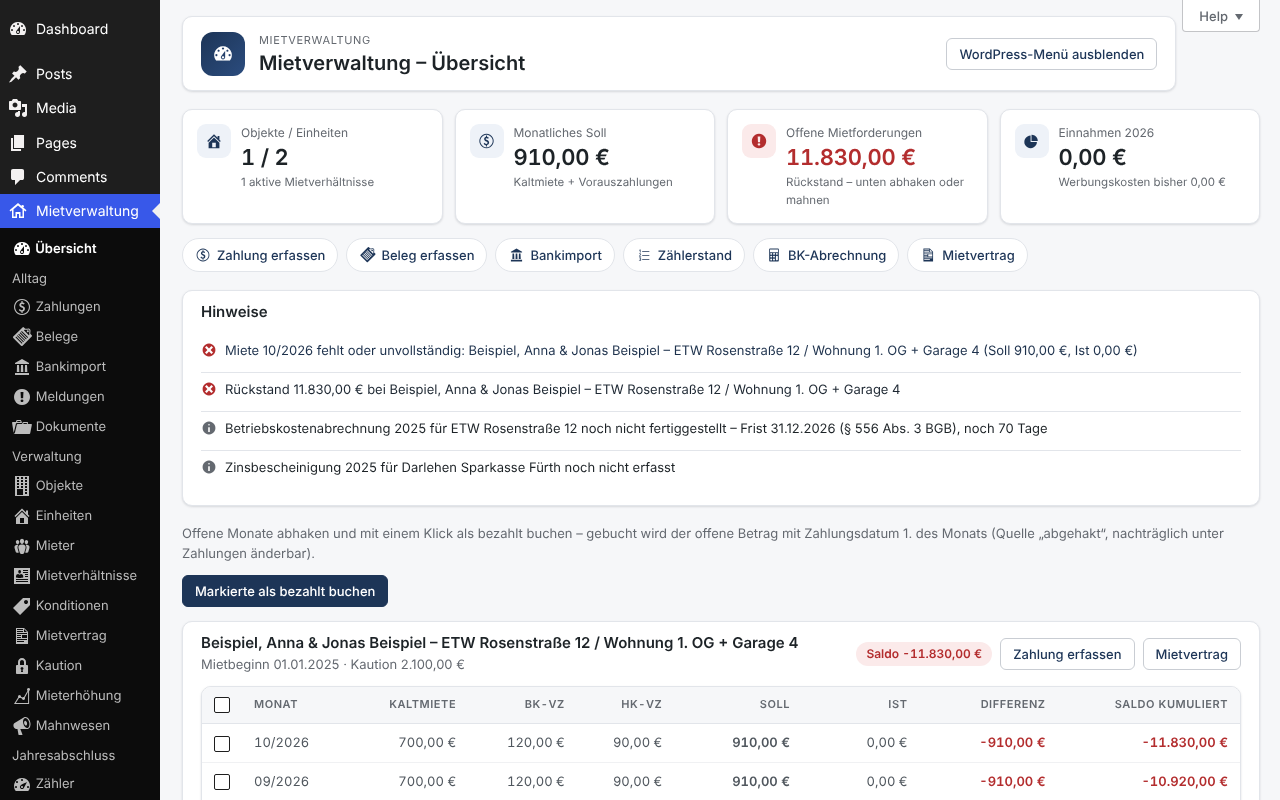
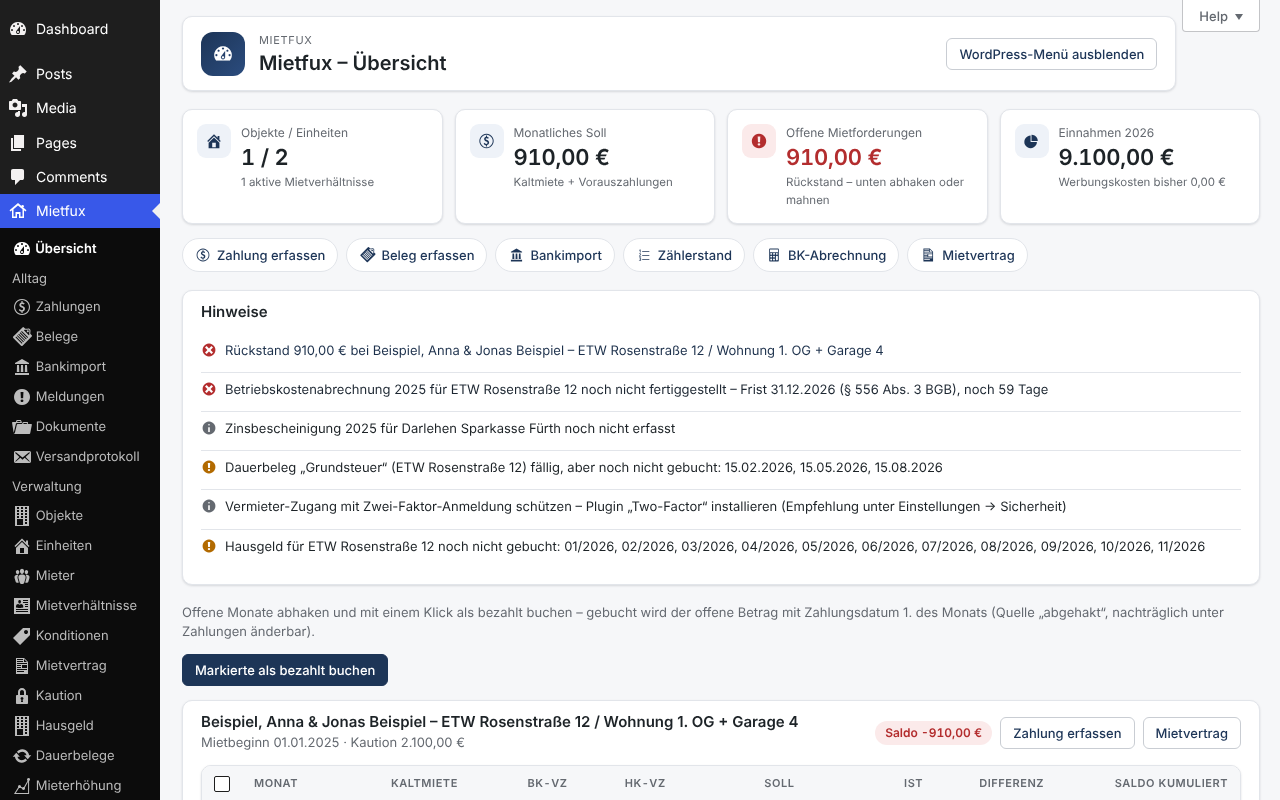
1.2.0 – Changelog, Readme, Screenshots, Demodaten mit Dauerbeleg
Claude-Session: https://claude.ai/code/session_01NVwj6gNjdWYU9fB8pT8waD

diff --git a/includes/class-mv-demo.php b/includes/class-mv-demo.php
@@ -232,10 +232,6 @@ class Mietv_Demo {
 
 		// Belege im Vorjahr
 		$belege = [
-			[ ( $jahr - 1 ) . '-02-15', 'Grundsteuer', 'Stadt Fürth', 'Grundsteuer 1. Quartal', 84.5 ],
-			[ ( $jahr - 1 ) . '-05-15', 'Grundsteuer', 'Stadt Fürth', 'Grundsteuer 2. Quartal', 84.5 ],
-			[ ( $jahr - 1 ) . '-08-15', 'Grundsteuer', 'Stadt Fürth', 'Grundsteuer 3. Quartal', 84.5 ],
-			[ ( $jahr - 1 ) . '-11-15', 'Grundsteuer', 'Stadt Fürth', 'Grundsteuer 4. Quartal', 84.5 ],
 			[ ( $jahr - 1 ) . '-06-20', 'Erhaltungsaufwand', 'Sanitär Meier', 'Reparatur Armatur Bad', 236.4 ],
 			[ ( $jahr - 1 ) . '-09-02', 'Sonstige Werbungskosten', 'Mietfux', 'Software, Porto', 59.9 ],
 		];
@@ -260,6 +256,32 @@ class Mietv_Demo {
 					'verteilung_jahre' => 1,
 				]
 			);
+		}
+
+		// Dauerbeleg: Grundsteuer vierteljährlich, Vorjahr gebucht
+		if ( class_exists( 'Mietv_Dauerbelege' ) && $id_of( 'Grundsteuer' ) ) {
+			$wpdb->insert(
+				mietv_table( 'dauerbelege' ),
+				[
+					'owner_id'          => MIETV_OWNER_ID,
+					'objekt_id'         => $oid,
+					'kostenart_id'      => $id_of( 'Grundsteuer' ),
+					'bezeichnung'       => 'Grundsteuer',
+					'lieferant'         => 'Stadt Fürth',
+					'iban'              => 'DE12760500000000012345',
+					'betrag'            => 84.5,
+					'intervall'         => 'vierteljaehrlich',
+					'erste_faelligkeit' => ( $jahr - 1 ) . '-02-15',
+					'ende'              => null,
+					'aktiv'             => 1,
+					'notiz'             => '',
+				]
+			);
+			$did = (int) $wpdb->insert_id;
+			foreach ( [ '02', '05', '08', '11' ] as $mm ) {
+				$f = ( $jahr - 1 ) . '-' . $mm . '-15';
+				Mietv_Dauerbelege::buchen( $did, $f, $f );
+			}
 		}
 
 		// Hausgeld: Wirtschaftsplan + Vorjahr gebucht

diff --git a/mietfux.php b/mietfux.php
@@ -3,7 +3,7 @@
  * Plugin Name: Mietfux – Mietverwaltung für Vermieter
  * Plugin URI: https://github.com/sporcherla/mietverwaltung
  * Description: Rental management for German landlords: properties, tenancies, payments (target/actual), tenant portal with damage reports, receipts, depreciation, loans, tax report (Anlage V), service charge statements, bank import, dunning, rent increases, tenancy agreement/handover protocol, deposit account, PDF generation, GDPR deletion concept and backup.
- * Version: 1.1.1
+ * Version: 1.2.0
  * Author: Markus Hirn
  * Requires at least: 6.0
  * Requires PHP: 8.0
@@ -17,7 +17,7 @@ if ( ! defined( 'ABSPATH' ) ) {
 	exit;
 }
 
-define( 'MIETV_VERSION', '1.1.1' );
+define( 'MIETV_VERSION', '1.2.0' );
 define( 'MIETV_PATH', plugin_dir_path( __FILE__ ) );
 define( 'MIETV_URL', plugin_dir_url( __FILE__ ) );
 // Vorbereitung Mandantenfähigkeit: vorerst immer 1.

diff --git a/CHANGELOG.md b/CHANGELOG.md
@@ -2,6 +2,19 @@
 
 Alle nennenswerten Änderungen am Plugin „Mietfux“ (bis 1.0.0 „Mietverwaltung“).
 
+## 1.2.0 – Dauerbelege, Protokoll, E-Mail-Versand, VPI, Backups, 2FA, Steuerberater
+
+- **Dauerbelege** (Alltag → Dauerbelege): Fälligkeitspläne (monatlich/vierteljährlich/halbjährlich/jährlich) für Grundsteuer, Versicherung, Schornsteinfeger usw.; Termine abhaken und buchen (Beleg mit Leistungszeitraum des Intervalls), Bankimport erkennt Lieferant/IBAN und bucht die nächste Fälligkeit.
+- **Änderungsprotokoll** (System → Protokoll): wer hat wann welchen Datensatz angelegt, geändert, gelöscht oder anonymisiert – nur geänderte Felder, IBAN maskiert, IP anonymisiert; Filter, CSV-Export, Aufbewahrungsfrist (Standard 365 Tage, täglicher Cron). Rechenschaftspflicht Art. 5 Abs. 2 DSGVO.
+- **E-Mail-Versand** (Alltag → Versandprotokoll): Betriebskostenabrechnung, Mieterhöhung, Kautionsabrechnung und Mahnung per Knopfdruck als PDF an den Mieter; Anschreiben mit Anrede, Signatur, Kopie an den Vermieter, Versandprotokoll mit Status/Fehler. Die Mahn-Mail läuft jetzt ebenfalls darüber. Dafür liefern die Fachmodule ihre Brieftexte über `body()`.
+- **Verbraucherpreisindex** (Jahresabschluss → Index / VPI): Monatswerte manuell, per CSV oder von Destatis (GENESIS-Online, Gastzugang oder eigene Zugangsdaten in den Einstellungen); Übersicht aller Indexmieten mit Sperrfrist, möglicher Anpassung und vorbelegtem Erhöhungsschreiben; Hinweis auf der Übersicht.
+- **Automatische Sicherungen** (Einstellungen): täglich/wöchentlich per WP-Cron als JSON in `uploads/mietfux-backups` (gesperrt für direkten Zugriff), rotierend (Anzahl einstellbar), optional per E-Mail; Liste mit Download/Löschen, „Sicherung jetzt erstellen“.
+- **Zwei-Faktor-Anmeldung**: Erkennung des Plugins „Two-Factor“ (WordPress-Core-Team), Hinweis auf der Übersicht, Einstellung „Pflicht für Vermieter und Administratoren“ (leitet ohne eingerichtete 2FA zum Profil).
+- **Rolle „Steuerberater (nur lesen)“**: eigener Menüeintrag mit Anlage V, Belegliste und CSV-Export, keine Schreibrechte.
+- **Demodaten**: auf leerer Installation per Knopf (Übersicht) – Eigentumswohnung mit Mieter, zwei Jahre Zahlungen, Belege, Darlehen, Hausgeld, Zähler. **Playground-Blueprint** (`.wordpress-org/blueprints/blueprint.json`) für die Live-Vorschau auf WordPress.org.
+- Behoben: Brief-Link in der Erhöhungshistorie (falsche Nonce-Aktion), Abrechnungs-Brief über admin-post (TypeError), Hausgeld-Tabellen fehlten im Backup.
+- Datenbank-Version 15 (Tabellen `mv_dauerbelege`, `mv_protokoll`, `mv_versand`, `mv_vpi`, Spalte `belege.dauerbeleg_id`).
+
 ## 1.1.1 – Update-Prüfung im Plugin
 
 - Einstellungen & Backup → „Version & Updates“: installierte Version, letzte Prüfung, Button „Nach Updates suchen“ (fragt WordPress.org sofort statt alle 12 Stunden) und „Jetzt auf x.y.z aktualisieren“ (startet die normale WordPress-Aktualisierung). Hinweis auf der Übersicht, sobald eine neue Version vorliegt.

diff --git a/README.md b/README.md
@@ -40,6 +40,11 @@
 | **Mietvertrag** | Wohnraummietvertrag mit 20 §§ aus den Stammdaten (Befristung, Staffel/Index, Kleinreparaturen, Tiere, Schönheitsreparaturen, Mietpreisbremse-Ausnahmen, § 554 BGB …), Hausordnung, Merkblatt Heizen/Lüften, Datenschutzinformation Art. 13, SEPA-Lastschriftmandat, Übergabeprotokoll Einzug/Auszug – als PDF oder Druckansicht, Ablage in den Dokumenten |
 | **Kaution** | Kautionskonto nach § 551 BGB: Einzahlungen, taggenaue Verzinsung, Verrechnung, Rückzahlungsabrechnung als PDF |
 | **Hausgeld (WEG)** | Wirtschaftsplan je Eigentumswohnung mit Aufteilung auf Kostenarten; Monatszahlungen erzeugen Belege (umlagefähig → BK-Abrechnung, Verwaltung/Instandhaltung → Anlage V, Erhaltungsrücklage nicht abziehbar); WEG-Jahresabrechnung bucht Nachzahlung/Guthaben je Kostenart; Bankimport erkennt die Hausverwaltung |
+| **Dauerbelege** | Fälligkeitspläne für Grundsteuer, Versicherung, Schornsteinfeger … (monatlich bis jährlich), abhaken und buchen, Bankimport erkennt den Lieferanten |
+| **E-Mail-Versand** | Abrechnung, Mieterhöhung, Kautionsabrechnung, Mahnung als PDF an den Mieter, Kopie an den Vermieter, Versandprotokoll |
+| **Verbraucherpreisindex** | VPI-Monatswerte (manuell, CSV, Destatis), Indexmieten mit Sperrfrist und möglicher Anpassung, vorbelegtes Erhöhungsschreiben |
+| **Änderungsprotokoll** | Wer hat wann was angelegt, geändert, gelöscht, anonymisiert – Filter, CSV, Aufbewahrungsfrist (Rechenschaftspflicht DSGVO) |
+| **Sicherung & Sicherheit** | Automatische JSON-Backups (Cron, rotierend, optional per E-Mail), 2FA-Anbindung (Plugin „Two-Factor“, Pflicht für Vermieter), Rolle „Steuerberater (nur lesen)“, Demodaten, Playground-Vorschau |
 | **Mahnwesen** | Zahlungserinnerung, 1. und letzte Mahnung mit Fristen, PDF, E-Mail an Mieter und Mitmieter, Warnung bei ≥ 2 Monatsmieten Rückstand |
 | **Mieterhöhung** | § 558 (Vergleichsmiete, Kappungsgrenze 15/20 %, Sperrfrist), § 557b (Index/VPI), Vereinbarung/Staffel; Schreiben und neue Kondition automatisch |
 | **Mieterportal** | Shortcode `[mietfux_portal]`: Mietkonto, Abrechnungen, freigegebene Dokumente, Schadensmeldung, Zählerstand melden |

diff --git a/README.en.md b/README.en.md
@@ -42,6 +42,11 @@
 | **Tenancy agreement** | Residential agreement with 20 sections generated from master data (fixed term, stepped/index rent, minor repairs, pets, decorative repairs, rent cap exceptions, § 554 BGB …), house rules, heating/ventilation leaflet, Art. 13 GDPR privacy notice, SEPA direct debit mandate, move-in/move-out handover protocol – as PDF or print view, filed under Documents |
 | **Deposit** | Deposit account under § 551 BGB: payments, daily interest, offsetting, settlement as PDF |
 | **Owners’ association fee** | Budget plan per condominium with split by cost type; monthly payments create receipts (recoverable → service charge statement, management/maintenance → Anlage V, maintenance reserve not deducted); annual statement books differences per cost type; bank import recognises the manager |
+| **Recurring expenses** | Due-date plans for property tax, insurance, chimney sweep … (monthly to yearly), tick and book, bank import recognises the supplier |
+| **Email dispatch** | Statement, rent increase, deposit settlement, dunning as PDF to the tenant, copy to landlord, dispatch log |
+| **Consumer price index** | Monthly CPI values (manual, CSV, Destatis), index-linked tenancies with waiting period and possible adjustment, pre-filled increase letter |
+| **Activity log** | Who created, changed, deleted or anonymised what – filters, CSV, retention period (GDPR accountability) |
+| **Backup & security** | Automatic JSON backups (cron, rotated, optional by email), 2FA integration (“Two-Factor” plugin, mandatory for landlords), role “Tax advisor (read-only)”, demo data, Playground preview |
 | **Dunning** | Payment reminder, 1st and final dunning letter with deadlines, PDF, email to tenant and co-tenant, warning at ≥ 2 months' arrears |
 | **Rent increase** | § 558 (reference rent, cap 15/20 %, waiting period), § 557b (index/CPI), agreement/stepped rent; letter and new rent condition created automatically |
 | **Tenant portal** | Shortcode `[mietfux_portal]`: rent account, statements, released documents, damage reports, meter readings |
